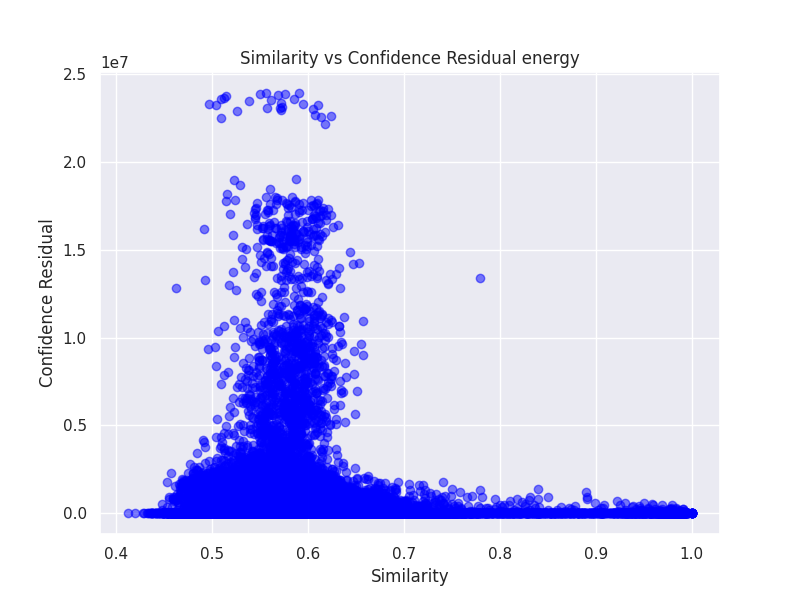
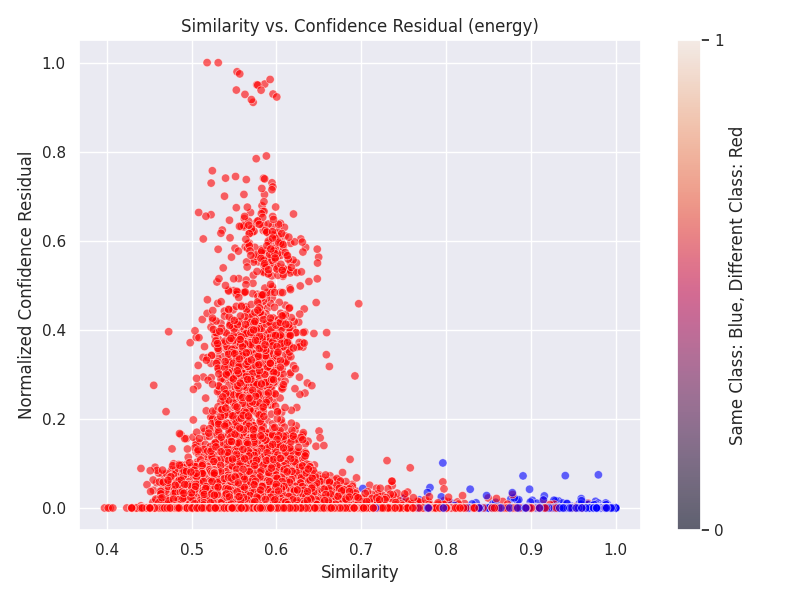
awd

diff --git a/test.py b/test.py
@@ -6,6 +6,11 @@ import numpy as np
 import torch
 import torch.nn as nn
 import matplotlib.pyplot as plt
+from collections import Counter
+import json
+from torchvision import models
+
+
 
 def compare_two_points_confidence(scores_dict, data, point1, point2, method="max_logit"):
 
@@ -23,16 +28,6 @@ def compare_two_points_confidence(scores_dict, data, point1, point2, method="max
 
     return confidence_residual, similarity
 
-def plot_similarity_vs_residual(similarities, residuals, output_path, method="max_logit"):
-
-    plt.figure(figsize=(8, 6))
-    plt.scatter(similarities, residuals, c='blue', alpha=0.5)
-    plt.title(f"Similarity vs Confidence Residual {method}")
-    plt.xlabel("Similarity")
-    plt.ylabel("Confidence Residual")
-    plt.grid(True)
-    plt.savefig(output_path)
-    plt.close()
 
 def main(args):
     load_data_root = args.data_dir
@@ -58,6 +53,7 @@ def main(args):
 
     similarities = []
     confidence_residuals = []
+    colors = []
     for key in in_scores_dict:
         for _ in range(100000):
             i = random.randint(0, in_set_length - 1)
@@ -67,9 +63,46 @@ def main(args):
             similarities.append(similarity)
             confidence_residuals.append(confidence_residual)
 
+            similarity_bins = [f"{i}-{i+5}" for i in range(70, 100, 5)]
+            similarity_counts = Counter({bin_label: 0 for bin_label in similarity_bins})
+
+            if in_labels[i] == in_labels[j]:
+                colors.append('blue')  
+            else:
+                colors.append('red')  
+
+        for similarity in similarities:
+            if similarity * 100 >= 70:
+                for i in range(70, 100, 5):
+                    if i <= (similarity * 100) < i + 5:
+                        bin_label = f"{i}-{i+5}"
+                        similarity_counts[bin_label] += 1
+                        break
+
+
+        print(f"Similarity distribution for {key}:")
+        for bin_label, count in similarity_counts.items():
+            print(f"{bin_label}: {count} points")
+            
+        max_conf = np.max(confidence_residuals)
+        normalized_confidence_residuals = [x / max_conf for x in confidence_residuals]    
+
+  
+
+
 
         output_path = os.path.join(".", f"similarity_vs_confidence_residual_{key}.png")
-        plot_similarity_vs_residual(similarities, confidence_residuals, output_path, key)
+        plt.figure(figsize=(8, 6))
+        plt.scatter(similarities, normalized_confidence_residuals, c=colors, alpha=0.6, edgecolors='w', linewidth=0.5)
+        plt.xlabel('Similarity')
+        plt.ylabel('Normalized Confidence Residual')
+        plt.title(f'Similarity vs. Confidence Residual ({key})')
+        plt.colorbar(label='Same Class: Blue, Different Class: Red', ticks=[0, 1], orientation='vertical')
+        plt.grid(True)
+        plt.tight_layout()
+        plt.savefig(output_path)
+        plt.close()
+
 
     print(f"Plot saved at {output_path}")
 
